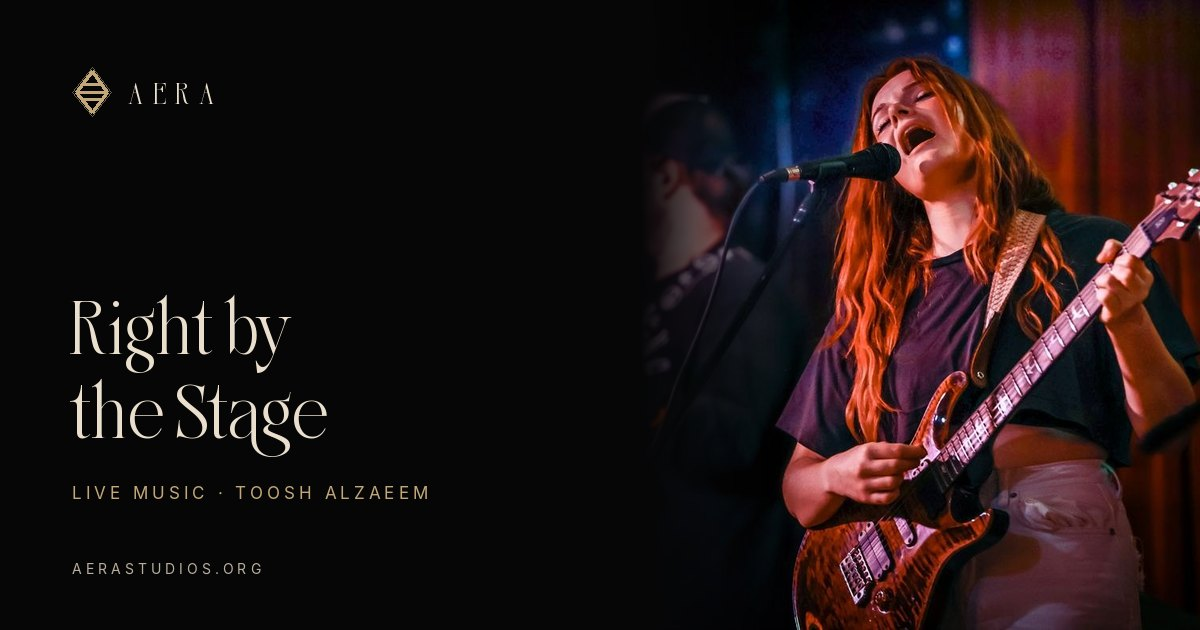
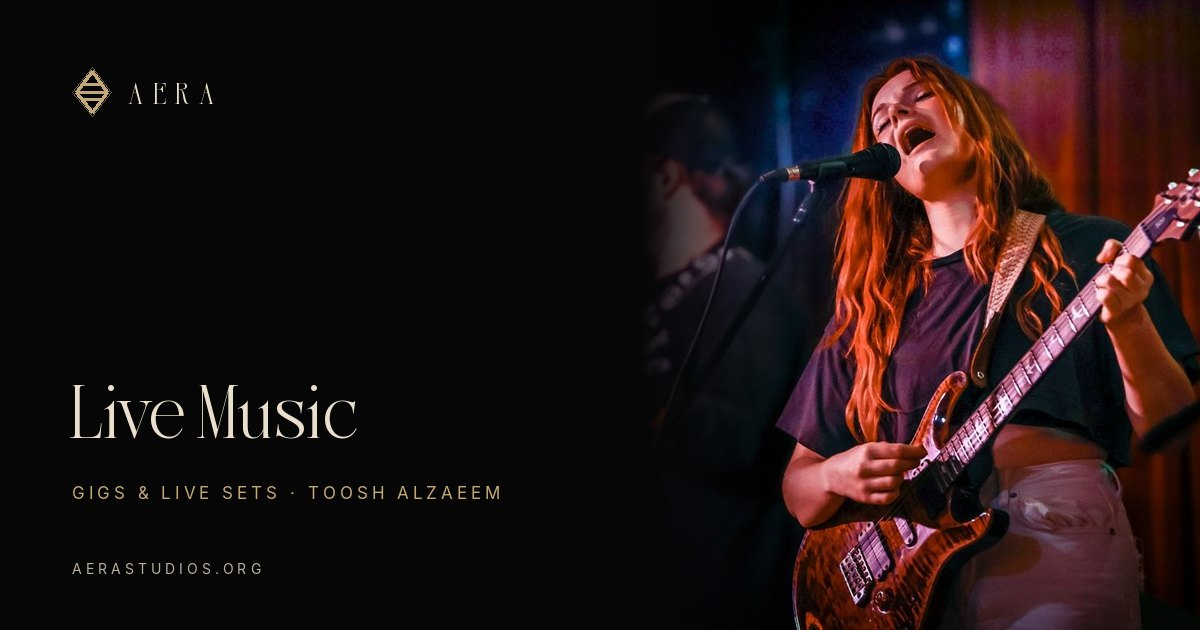
Rename Right by the Stage to Live Music
Claude-Session: https://claude.ai/code/session_018QDTE4aDZzMt5PTbKA9SMX

Changed region(s): [[0.0617, 0.754, 0.4008, 0.8143], [0.0617, 0.6032, 0.3083, 0.7238], [0.0617, 0.4825, 0.2467, 0.6032]]

diff --git a/work.html b/work.html
@@ -212,10 +212,10 @@
       </span>
     </a>
     <a href="/live-music">
-      <img src="assets/img/work/live-music/music-02.webp" loading="lazy" alt="Right by the Stage">
+      <img src="assets/img/work/live-music/music-02.webp" loading="lazy" alt="Live Music">
       <span class="pg-fb-meta">
-        <span class="pg-fb-cat">Live music</span>
-        <span class="pg-fb-title">Right by the Stage</span>
+        <span class="pg-fb-cat">Gig photography</span>
+        <span class="pg-fb-title">Live Music</span>
       </span>
     </a>
     <a href="/on-set">
@@ -228,7 +228,7 @@
   </div>
 </section>
 
-<script type="application/json" id="pgData">[{"title": "Headspace", "cat": "Short film", "href": "/headspace", "cover": "assets/img/work/headspace/falling.webp"}, {"title": "Warwick Application", "cat": "Video application", "href": "/warwick-application", "cover": "assets/img/work/warwick/asleep-hero.webp"}, {"title": "Never Felt So Alone", "cat": "Music video", "href": "/never-felt-so-alone", "cover": "https://images.squarespace-cdn.com/content/v1/67a046e3af281e412f15579a/1738751753285-IBED4HQ8UC6KS2QNRQQL/IMG_7495.jpg?format=1500w"}, {"title": "I Feel Good", "cat": "Short film", "href": "/i-feel-good", "cover": "https://images.squarespace-cdn.com/content/v1/67a046e3af281e412f15579a/1738836148815-E90A17Q0X8NECR2KG62A/asfgh.png?format=1500w"}, {"title": "Rolls-Royce", "cat": "Brand film", "href": "/rolls-royce", "cover": "https://cdn.myportfolio.com/306f0dec-b99e-4a9e-a71a-768e23a6c7b5/4e1dea05-cfeb-4ec8-8bbb-edff7475ac5f_rwc_0x157x1920x768x1920.jpg?h=6da19d20ea4eb957d336eb7de3dbc5bf"}, {"title": "Green Planet Dubai", "cat": "Photography", "href": "/green-planet-dubai", "cover": "https://images.squarespace-cdn.com/content/v1/67a046e3af281e412f15579a/1739452876599-36BMH4HXUAUML70B7F1D/Green+Planet+Photos-01.jpg?format=1500w"}, {"title": "Photography", "cat": "Ongoing", "href": "/photography", "cover": "https://images.squarespace-cdn.com/content/v1/67a046e3af281e412f15579a/1739453956597-KG50FNZA9GIWFRW2Z6C5/IMG_6821-Enhanced-NR.jpg?format=1500w"}, {"title": "KIA Motors", "cat": "Commercial", "href": "/kia-motors", "cover": "https://cdn.myportfolio.com/306f0dec-b99e-4a9e-a71a-768e23a6c7b5/16daea74-6710-467e-943d-5a01a1150467_rw_3840.jpg?h=7c2bac025a21c60797a1bfc4a38d48bf"}, {"title": "Eid Al Etihad Day", "cat": "Commissioned", "href": "/eid-al-etihad", "cover": "https://images.squarespace-cdn.com/content/v1/67a046e3af281e412f15579a/1739453756613-1HQ85VBPU1OO5P4IBOO5/UAE+Flag.jpg?format=1500w"}, {"title": "Graphic Design", "cat": "Design", "href": "/graphic-design", "cover": "https://images.squarespace-cdn.com/content/v1/67a046e3af281e412f15579a/1739634160164-UPFI1V1Z2CNL84EPEKQ5/Basketball+TV+Matchday+Graphic+1+copy.jpg?format=1500w"}, {"title": "On Stage", "cat": "Theatre", "href": "/on-stage", "cover": "assets/img/team/toosh/theatre-finale.jpg"}, {"title": "Right by the Stage", "cat": "Live music", "href": "/live-music", "cover": "assets/img/work/live-music/music-02.webp"}, {"title": "On Set", "cat": "Behind the scenes", "href": "/on-set", "cover": "assets/img/team/toosh/set-clapperboard.jpg"}]</script>
+<script type="application/json" id="pgData">[{"title": "Headspace", "cat": "Short film", "href": "/headspace", "cover": "assets/img/work/headspace/falling.webp"}, {"title": "Warwick Application", "cat": "Video application", "href": "/warwick-application", "cover": "assets/img/work/warwick/asleep-hero.webp"}, {"title": "Never Felt So Alone", "cat": "Music video", "href": "/never-felt-so-alone", "cover": "https://images.squarespace-cdn.com/content/v1/67a046e3af281e412f15579a/1738751753285-IBED4HQ8UC6KS2QNRQQL/IMG_7495.jpg?format=1500w"}, {"title": "I Feel Good", "cat": "Short film", "href": "/i-feel-good", "cover": "https://images.squarespace-cdn.com/content/v1/67a046e3af281e412f15579a/1738836148815-E90A17Q0X8NECR2KG62A/asfgh.png?format=1500w"}, {"title": "Rolls-Royce", "cat": "Brand film", "href": "/rolls-royce", "cover": "https://cdn.myportfolio.com/306f0dec-b99e-4a9e-a71a-768e23a6c7b5/4e1dea05-cfeb-4ec8-8bbb-edff7475ac5f_rwc_0x157x1920x768x1920.jpg?h=6da19d20ea4eb957d336eb7de3dbc5bf"}, {"title": "Green Planet Dubai", "cat": "Photography", "href": "/green-planet-dubai", "cover": "https://images.squarespace-cdn.com/content/v1/67a046e3af281e412f15579a/1739452876599-36BMH4HXUAUML70B7F1D/Green+Planet+Photos-01.jpg?format=1500w"}, {"title": "Photography", "cat": "Ongoing", "href": "/photography", "cover": "https://images.squarespace-cdn.com/content/v1/67a046e3af281e412f15579a/1739453956597-KG50FNZA9GIWFRW2Z6C5/IMG_6821-Enhanced-NR.jpg?format=1500w"}, {"title": "KIA Motors", "cat": "Commercial", "href": "/kia-motors", "cover": "https://cdn.myportfolio.com/306f0dec-b99e-4a9e-a71a-768e23a6c7b5/16daea74-6710-467e-943d-5a01a1150467_rw_3840.jpg?h=7c2bac025a21c60797a1bfc4a38d48bf"}, {"title": "Eid Al Etihad Day", "cat": "Commissioned", "href": "/eid-al-etihad", "cover": "https://images.squarespace-cdn.com/content/v1/67a046e3af281e412f15579a/1739453756613-1HQ85VBPU1OO5P4IBOO5/UAE+Flag.jpg?format=1500w"}, {"title": "Graphic Design", "cat": "Design", "href": "/graphic-design", "cover": "https://images.squarespace-cdn.com/content/v1/67a046e3af281e412f15579a/1739634160164-UPFI1V1Z2CNL84EPEKQ5/Basketball+TV+Matchday+Graphic+1+copy.jpg?format=1500w"}, {"title": "On Stage", "cat": "Theatre", "href": "/on-stage", "cover": "assets/img/team/toosh/theatre-finale.jpg"}, {"title": "Live Music", "cat": "Gig photography", "href": "/live-music", "cover": "assets/img/work/live-music/music-02.webp"}, {"title": "On Set", "cat": "Behind the scenes", "href": "/on-set", "cover": "assets/img/team/toosh/set-clapperboard.jpg"}]</script>
 
 <section class="tight">
   <div class="wrap">

diff --git a/live-music.html b/live-music.html
@@ -4,22 +4,22 @@
 <meta charset="UTF-8">
 <meta name="viewport" content="width=device-width, initial-scale=1.0">
 <!-- SEO -->
-<title>Live Music &amp; Gig Photography | Right by the Stage | Aera</title>
+<title>Live Music &amp; Gig Photography by Toosh Alzaeem | Aera</title>
 <meta name="description" content="Live music and gig photography by Toosh Alzaeem: bands and singers shot from right up by the stage, under whatever the venue lights are doing.">
 <meta name="robots" content="index, follow, max-image-preview:large">
 <link rel="canonical" href="https://aerastudios.org/live-music">
 <meta property="og:type" content="website">
 <meta property="og:site_name" content="Aera">
 <meta property="og:locale" content="en_GB">
-<meta property="og:title" content="Live Music &amp; Gig Photography | Right by the Stage | Aera">
+<meta property="og:title" content="Live Music &amp; Gig Photography by Toosh Alzaeem | Aera">
 <meta property="og:description" content="Live music and gig photography by Toosh Alzaeem: bands and singers shot from right up by the stage, under whatever the venue lights are doing.">
 <meta property="og:url" content="https://aerastudios.org/live-music">
 <meta property="og:image" content="https://aerastudios.org/assets/img/og/og-live-music.jpg">
 <meta property="og:image:width" content="1200">
 <meta property="og:image:height" content="630">
-<meta property="og:image:alt" content="Live Music &amp; Gig Photography | Right by the Stage">
+<meta property="og:image:alt" content="Live Music &amp; Gig Photography by Toosh Alzaeem">
 <meta name="twitter:card" content="summary_large_image">
-<meta name="twitter:title" content="Live Music &amp; Gig Photography | Right by the Stage | Aera">
+<meta name="twitter:title" content="Live Music &amp; Gig Photography by Toosh Alzaeem | Aera">
 <meta name="twitter:description" content="Live music and gig photography by Toosh Alzaeem: bands and singers shot from right up by the stage, under whatever the venue lights are doing.">
 <meta name="twitter:image" content="https://aerastudios.org/assets/img/og/og-live-music.jpg">
 <meta name="theme-color" content="#060607">
@@ -38,8 +38,8 @@
   {
    "@type": "CreativeWork",
    "@id": "https://aerastudios.org/live-music#work",
-   "name": "Live Music & Gig Photography",
-   "headline": "Live Music & Gig Photography",
+   "name": "Live Music & Gig Photography by Toosh Alzaeem",
+   "headline": "Live Music & Gig Photography by Toosh Alzaeem",
    "url": "https://aerastudios.org/live-music",
    "description": "Live music and gig photography by Toosh Alzaeem: bands and singers shot from right up by the stage, under whatever the venue lights are doing.",
    "genre": "Live music photography",
@@ -69,7 +69,7 @@
     {
      "@type": "ListItem",
      "position": 3,
-     "name": "Live Music & Gig Photography",
+     "name": "Live Music & Gig Photography by Toosh Alzaeem",
      "item": "https://aerastudios.org/live-music"
     }
    ]
@@ -130,14 +130,14 @@
     <img class="sc-open-img" src="assets/img/work/live-music/music-02.webp" alt="A guitarist with long red hair singing at the mic, the band behind her" fetchpriority="high" style="transform-origin:55% 40%">
     <div class="sc-meta">
       <span>Photographs by Toosh Alzaeem</span>
-      <span class="sc-crumb"><a href="/work">Work</a> / Right by the Stage</span>
+      <span class="sc-crumb"><a href="/work">Work</a> / Live Music</span>
     </div>
     <div class="sc-cue" aria-hidden="true">Scroll</div>
   </div>
 </header>
 
 <section class="sc-title">
-  <h1 class="sc-h1 reveal">Right by the Stage</h1>
+  <h1 class="sc-h1 reveal">Live Music</h1>
   <p class="sc-logline reveal">Gigs and live sets, shot from right up by the stage.</p>
   <dl class="sc-billing reveal">
     <div><dt>Photographed by</dt><dd>Toosh Alzaeem</dd></div>

diff --git a/toosh-alzaeem.html b/toosh-alzaeem.html
@@ -164,7 +164,7 @@
       <div class="ed-label-row" data-ed="draw"><span class="ed-label">Selected credits</span><span class="ed-label ed-num">(03)</span></div>
       <ol class="pf-index">
       <li><a href="/on-stage"><i>01</i><span>On Stage</span><em>Theatre</em></a></li>
-      <li><a href="/live-music"><i>02</i><span>Right by the Stage</span><em>Live music</em></a></li>
+      <li><a href="/live-music"><i>02</i><span>Live Music</span><em>Gig photography</em></a></li>
       <li><a href="/on-set"><i>03</i><span>On Set</span><em>Behind the scenes</em></a></li>
       </ol>
     </div>

diff --git a/on-stage.html b/on-stage.html
@@ -182,7 +182,7 @@
 <a class="sc-next" href="/live-music">
   <img src="assets/img/work/live-music/music-02.webp" alt="" loading="lazy">
   <span class="sc-next-lbl">Next</span>
-  <span class="sc-next-ttl">Right by the Stage</span>
+  <span class="sc-next-ttl">Live Music</span>
 </a>
 
 <section id="contact" class="contact">

diff --git a/tools/gen_team.py b/tools/gen_team.py
@@ -51,7 +51,7 @@ PEOPLE = [
        bio="Shoots theatre, gigs, weddings and anything with a crowd and some energy in the room. Four years in, starting out in Dubai and now based in Bournemouth, and happy to travel for a good job. On independent film sets she has run the lighting as head of gaffing and shot the behind-the-scenes photography. Never poses anyone stiffly; she catches what is actually happening and keeps the mood light, because people having fun always look their best.",
        skills=['Theatre', 'Live music', 'Weddings', 'Reels', 'Gaffing', 'BTS photography', 'Social'],
        links=[('Full portfolio', 'http://madebyzooshportfolio.com'), ('Instagram', 'https://instagram.com/madebyzoosh')],
-       credits=[('On Stage', 'Theatre', 'on-stage.html'), ('Right by the Stage', 'Live music', 'live-music.html'), ('On Set', 'Behind the scenes', 'on-set.html')],
+       credits=[('On Stage', 'Theatre', 'on-stage.html'), ('Live Music', 'Gig photography', 'live-music.html'), ('On Set', 'Behind the scenes', 'on-set.html')],
        folio=[T+'theatre-finale.jpg', T+'theatre-yellow-suit.jpg', T+'set-clapperboard.jpg', T+'wedding-altar.jpg', T+'socotra-dragon-tree.jpg']),
   dict(slug='vance-serania', first='Vance', name='Vance Serania',
        role='Middle East Lead · Filmmaker & Photographer', short='Middle East Lead',

diff --git a/tools/og_cards.py b/tools/og_cards.py
@@ -155,5 +155,5 @@ if __name__ == '__main__':
     card('og-vance', None, 'Vance Serania', 'Middle East lead · filmmaker', cutouts=['assets/img/team/cast-vance.webp'])
     card('og-headspace', 'assets/img/work/headspace/falling.jpg', 'Headspace', 'Short film · UAE Student Film Award', fx=0.5, fy=0.45, photo_side='right')
     card('og-warwick', 'assets/img/work/warwick/asleep-hero.jpg', 'Warwick\nApplication', 'A video application · Jack Careem', fx=0.5, photo_side='right')
-    card('og-live-music', 'assets/img/work/live-music/music-02.jpg', 'Right by\nthe Stage', 'Live music · Toosh Alzaeem', fx=0.55, photo_side='right')
+    card('og-live-music', 'assets/img/work/live-music/music-02.jpg', 'Live Music', 'Gigs & live sets · Toosh Alzaeem', fx=0.55, photo_side='right')
     icons()

diff --git a/tools/seo_pass.py b/tools/seo_pass.py
@@ -116,7 +116,7 @@ PAGES = {
         desc='Live theatre photography by Toosh Alzaeem and Jack Careem, shot from the stalls and the wings during the real show.',
         kind='project', creator='toosh', genre='Theatre photography'),
     'live-music': dict(
-        title='Live Music & Gig Photography | Right by the Stage | Aera',
+        title='Live Music & Gig Photography by Toosh Alzaeem | Aera',
         desc='Live music and gig photography by Toosh Alzaeem: bands and singers shot from right up by the stage, under whatever the venue lights are doing.',
         og='og-live-music.jpg', kind='project', creator='toosh', genre='Live music photography'),
     'on-set': dict(

diff --git a/tools/gen_projects.py b/tools/gen_projects.py
@@ -188,7 +188,7 @@ P['on-stage'] = dict(
 h, g = imgs('on-set')
 L = 'assets/img/work/live-music/'
 P['live-music'] = dict(
-    name='Right by the Stage', credit='Photographs by Toosh Alzaeem',
+    name='Live Music', credit='Photographs by Toosh Alzaeem',
     hero=(L + 'music-02.webp', 'A guitarist with long red hair singing at the mic, the band behind her'), origin='55% 40%',
     logline='Gigs and live sets, shot from right up by the stage.',
     billing=[('Photographed by', 'Toosh Alzaeem'), ('Work', 'Live music photography'), ('Shot during', 'Real gigs, from the front')],
